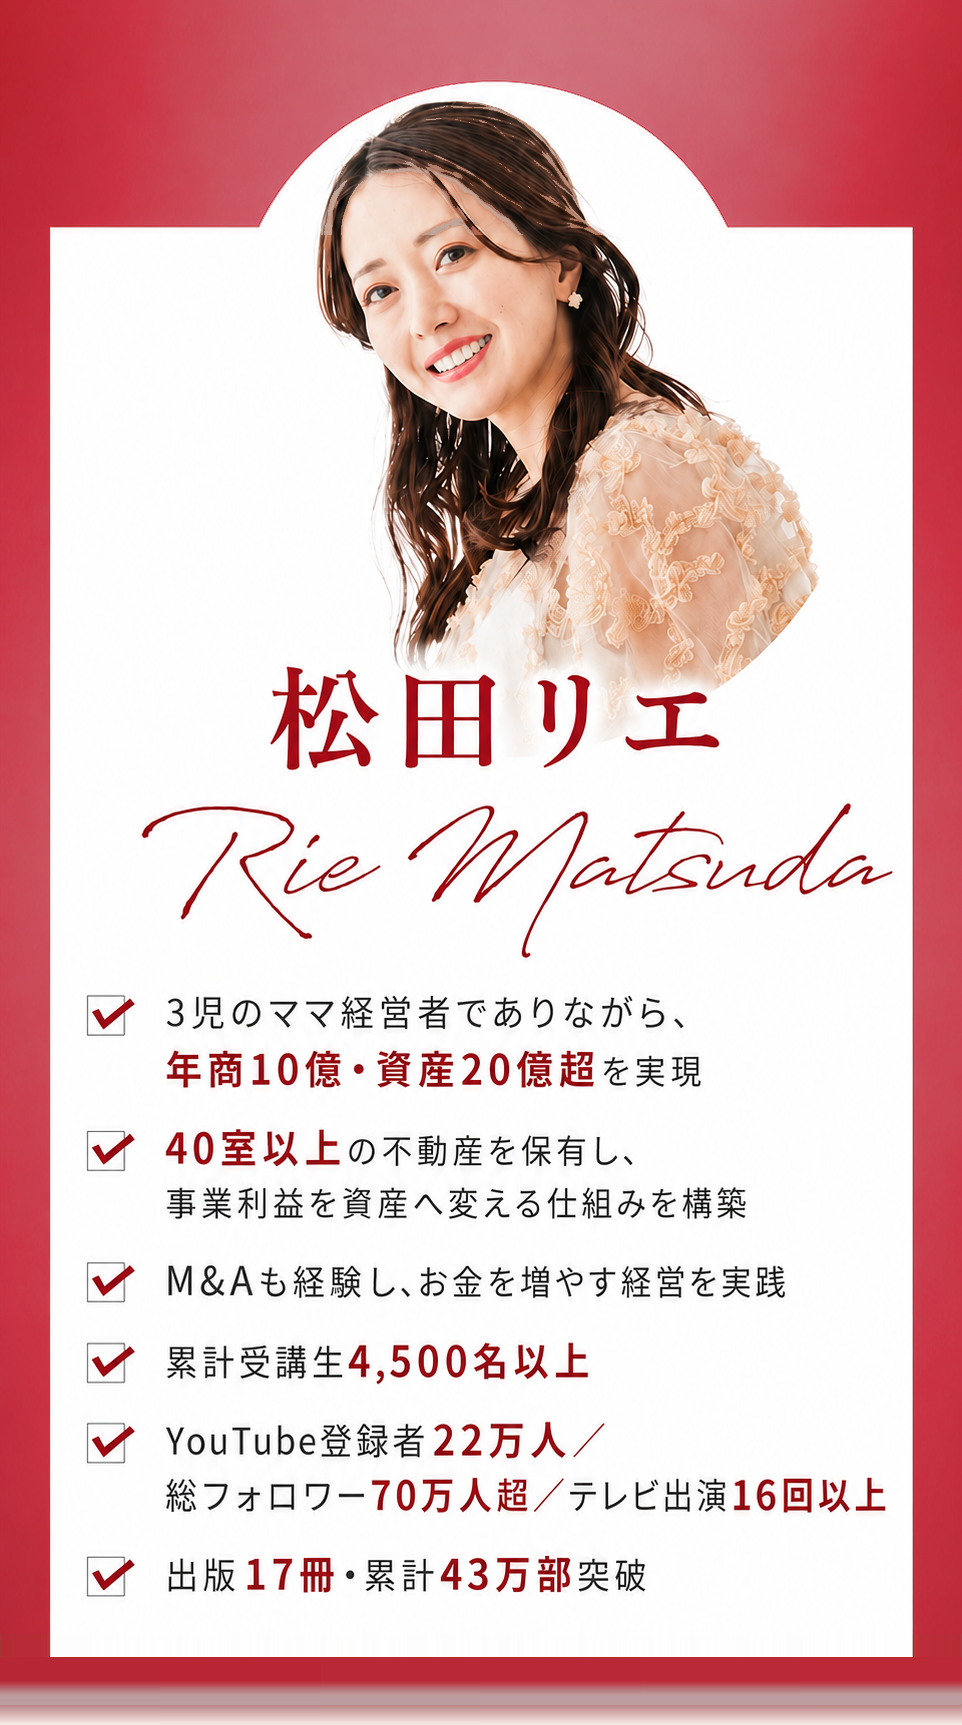
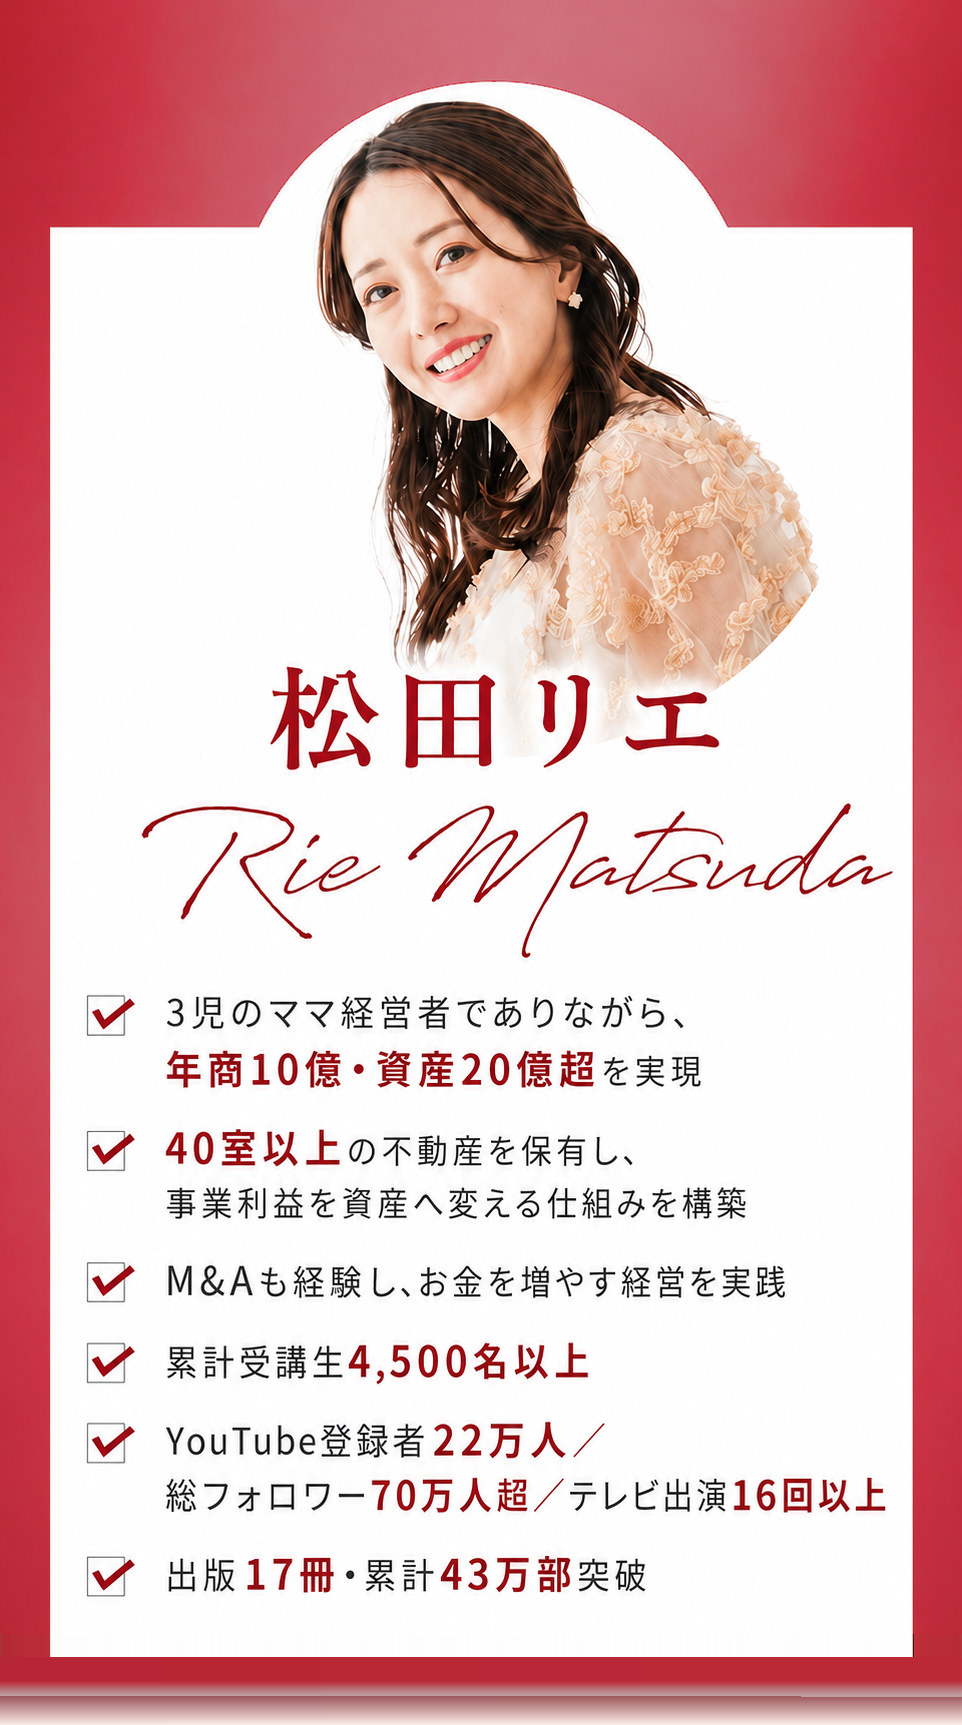
プロフィール画像の白浮き修正: 元画像から枠の濃い赤のみ限定して薄く（写真は無加工）

diff --git a/index.html b/index.html
@@ -943,7 +943,7 @@ footer .f-copy{margin-top:14px;font-size:12px;opacity:.95;}
   <section class="kanshu">
     <img class="profile-img" src="images/profile-head.png?v=1" alt="年商1億を資産10億へ。3児のママ経営者が実践する女性起業家の資産形成術。" width="1012" height="278">
     <img class="profile-img" src="images/kanshu-band.png?v=2" alt="事業と資産形成の両立を実現した 女性起業家 松田リエ監修。年商10億・資産20億超、40室以上の不動産を保有し、M&Aも経験した3児のママ経営者が監修。事業の利益を不動産や資産へ変え、自分が働かなくてもお金が増えていく仕組みを構築。「どう資産を作るか」を、リアルな経験に基づいて体系化した資産形成の無料講座です。" width="1122" height="1402">
-    <img class="profile-img" src="images/rie-profile.png?v=3" alt="松田リエ Rie Matsuda。3児のママ経営者でありながら年商10億・資産20億超を実現／40室以上の不動産を保有し事業利益を資産へ変える仕組みを構築／M&Aも経験しお金を増やす経営を実践／累計受講生4,500名以上／YouTube登録者22万人・総フォロワー70万人超・テレビ出演16回以上／出版17冊・累計43万部突破" width="962" height="1725">
+    <img class="profile-img" src="images/rie-profile.png?v=4" alt="松田リエ Rie Matsuda。3児のママ経営者でありながら年商10億・資産20億超を実現／40室以上の不動産を保有し事業利益を資産へ変える仕組みを構築／M&Aも経験しお金を増やす経営を実践／累計受講生4,500名以上／YouTube登録者22万人・総フォロワー70万人超・テレビ出演16回以上／出版17冊・累計43万部突破" width="962" height="1725">
     <img class="profile-img" src="images/jisseki.png?v=6" alt="実績画像・メディア掲載多数。テレビ出演写真／週刊女性・THE TIME,・美的.com・Yahoo!ニュース・小学館・女子SPA!・毎日新聞・朝日新聞・産経新聞・読売新聞・中日新聞・壮快ほか雑誌掲載多数。累計受講生4,500名以上／YouTube総登録者22万人以上／総フォロワー70万人突破／累計43万部突破／テレビ出演16回以上" width="724" height="1369">
   </section>
 
